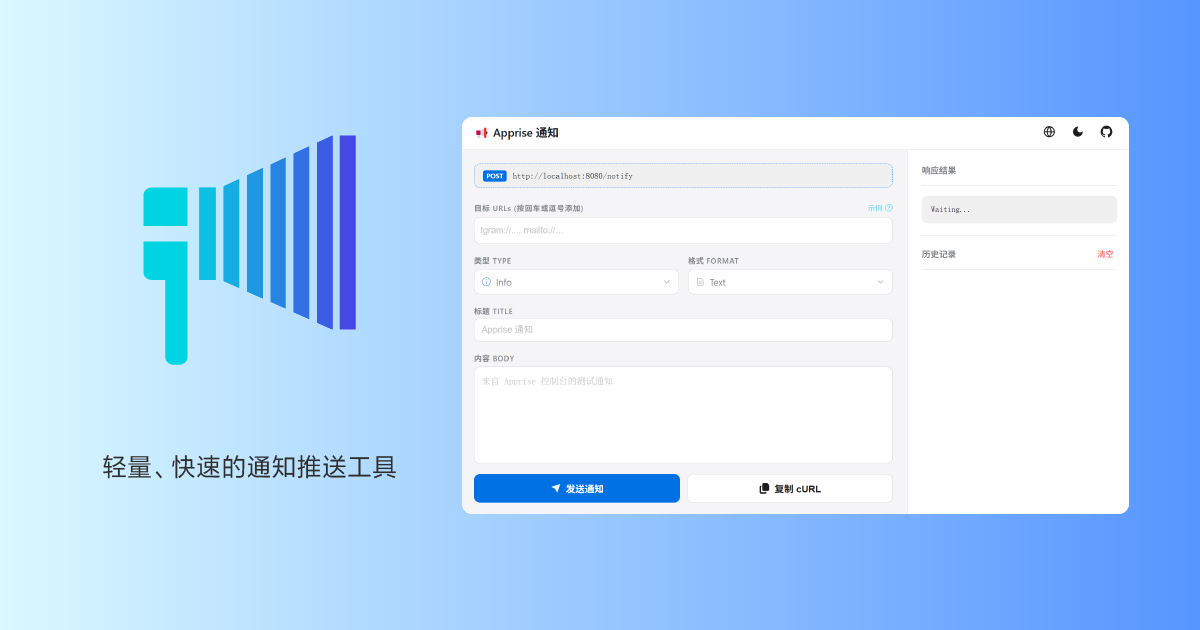
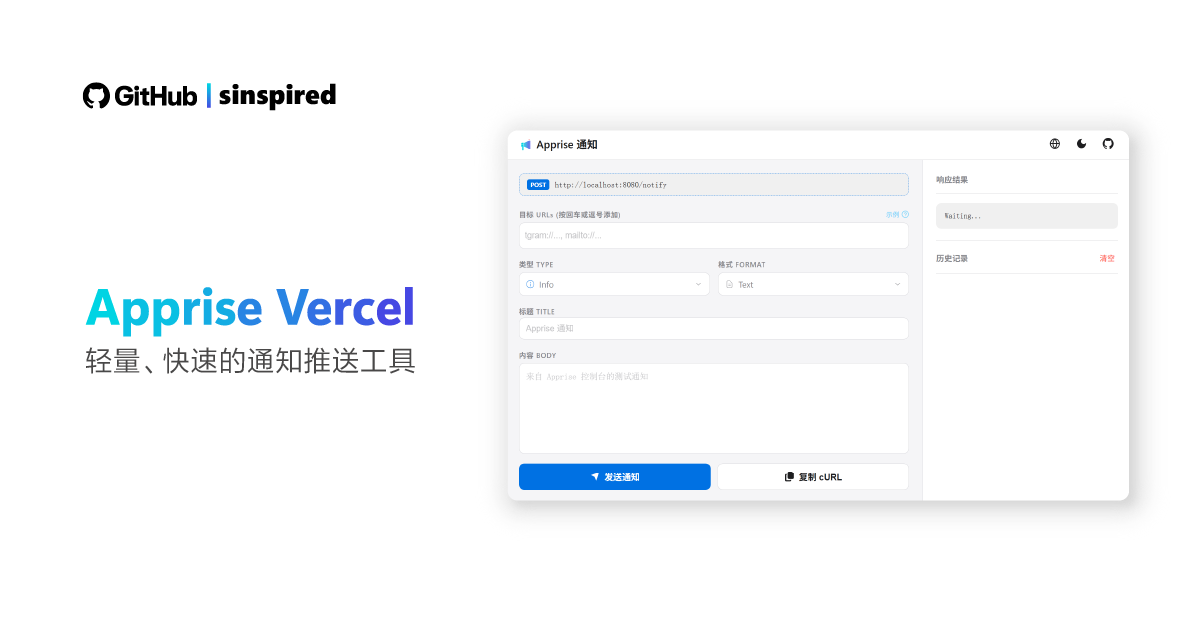
chore: 更新og

diff --git a/README.md b/README.md
@@ -23,6 +23,11 @@
 > [!TIP]  
 > 部署完成后访问 `https://your-project.vercel.app` 可在前端页面测试 `API` 和通知目标。
 
+<div align="center">
+  <img src="./public/static/Apprise_OG.png" alt="App Screenshot" width="800" style="border-radius: 10px; box-shadow: 0 4px 8px rgba(0,0,0,0.1);">
+  <br>
+</div>
+
 ## 🔔 通知渠道
 
 支持 `100+` 通知渠道，完整列表请查阅 [Apprise 官方文档](https://appriseit.com/services)。
